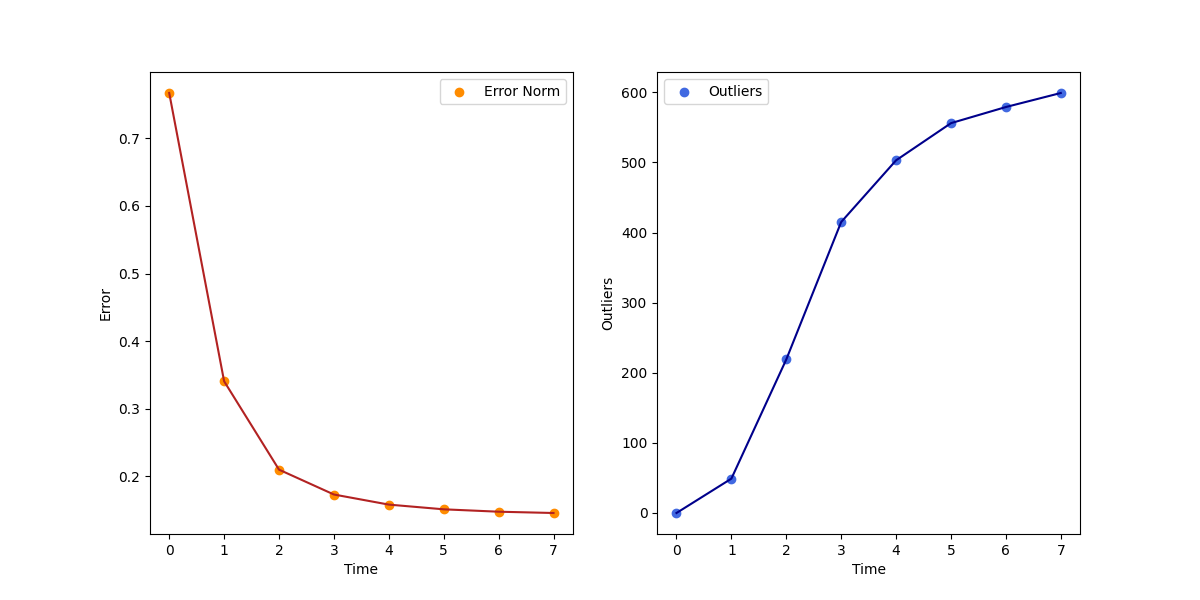
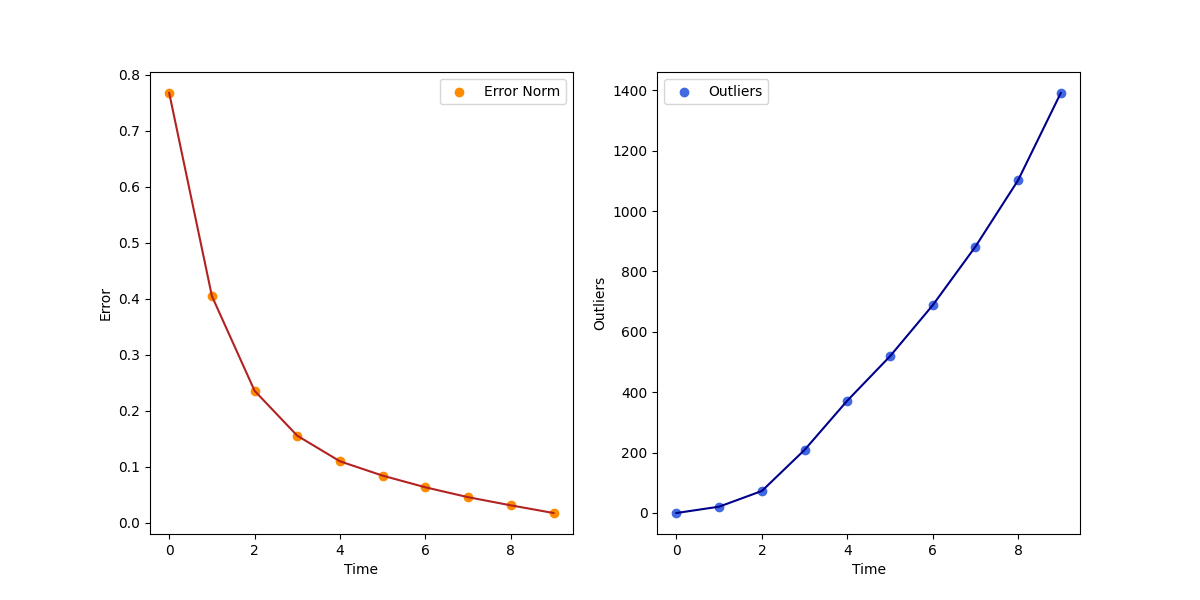
better

diff --git a/TricycleRobotCalibration/main.py b/TricycleRobotCalibration/main.py
@@ -29,8 +29,6 @@ MAX_TRACT_TICK = conf["MAX_TRACT_TICKS"]
 MAX_INT_32 = np.iinfo(np.int32).max
 MAX_UINT_32 = np.iinfo(np.uint32).max
 
-ERROR_THRESHOLD = float(conf["ERROR_THRESHOLD"])
-
 DATASET_PATH = assets_dir / "Data" / "dataset.txt"
 PICS_PATH = assets_dir / "Pics"
 
@@ -191,9 +189,9 @@ class Measurement:
 
     @staticmethod
     def box_minus(prediction: Pose, measurement: Pose):
-        inv_prediction = np.linalg.inv(prediction.to_transformation())
+        inv_measurement = np.linalg.inv(measurement.to_transformation())
         return Pose.from_transformation(
-            inv_prediction @ measurement.to_transformation()
+            inv_measurement @ prediction.to_transformation()
         )
     
 
@@ -239,6 +237,7 @@ def compute_jacobian(X: State, delta_robot: State, Z: Pose,
         X_plus = State.box_plus(
             X=X,
             delta_x=delta_plus_perturbed)
+        # print(f"Delta plus: {perturbation_vector},\n X_plus: {X_plus}")
 
         # MINUS part
         perturbation_vector[i] = -EPSILON
@@ -287,7 +286,6 @@ def compute_jacobian(X: State, delta_robot: State, Z: Pose,
             h_minus = prediction_function(
                 actual_sensor_pose=sensor_pose_minus, 
                 delta_robot=delta_robot)
-            
 
         error_plus = error_function(
             delta_sensor_predicted=h_plus,
@@ -376,19 +374,21 @@ class LS:
                 error *= np.sqrt(current_threshold/chi)
                 chi = current_threshold
                 num_outliers += 1
+                continue
 
             H += J.T @ self.omega @ J
             b += J.T @ self.omega @ error.reshape(-1, 1)
             total_chi += chi
 
-        H += np.diag([0.03,0.03,0.03,0.03,0.3,0.3,0.3])
+        #H += np.diag([3,3,3,30,800,800,800])
+        H += 2 * np.eye(STATE_DIM)
 
         return H, b, total_chi, num_outliers
     
     def run(self):
         chi_square = np.zeros((NUM_ITERATIONS, 1))
         total_outliers = np.zeros((NUM_ITERATIONS, 1))
-        current_threshold = ERROR_THRESHOLD
+        current_threshold = 0
         for i in range(NUM_ITERATIONS):
             print(f"Iteration {i}")
 
@@ -401,7 +401,7 @@ class LS:
             chi_square[i] = chi_iteration
             total_outliers[i] = num_outliers
 
-            current_threshold = 2.0*chi_iteration/DATA_SIZE
+            current_threshold = 3.0*chi_iteration/DATA_SIZE # 3.0
 
             delta_x, _, _, _ = np.linalg.lstsq(H, -b, rcond=None)
             delta_x = delta_x.ravel()
@@ -416,7 +416,7 @@ class LS:
             self.kinematic_parameters = X_star.kinem_param
             self.relative_sensor_pose = X_star.sensor_pose
 
-            print(f"State: {X_star}, \n \
+            print(f"{X_star}, \n \
                     Chi Square: {chi_iteration} \n \
                     Num_outliers: {num_outliers} \n")
 
@@ -430,7 +430,6 @@ if __name__ == "__main__":
     X_final, chi_square, total_outliers = algo.run()
 
     sensor_calibrated = np.zeros((DATA_SIZE-1, 2))
-    sensor_uncalibrated = np.zeros((DATA_SIZE-1, 2))
 
     Ks, Kt, a, delta_s = X_final.kinem_param
     sensor_pose = X_final.sensor_pose
